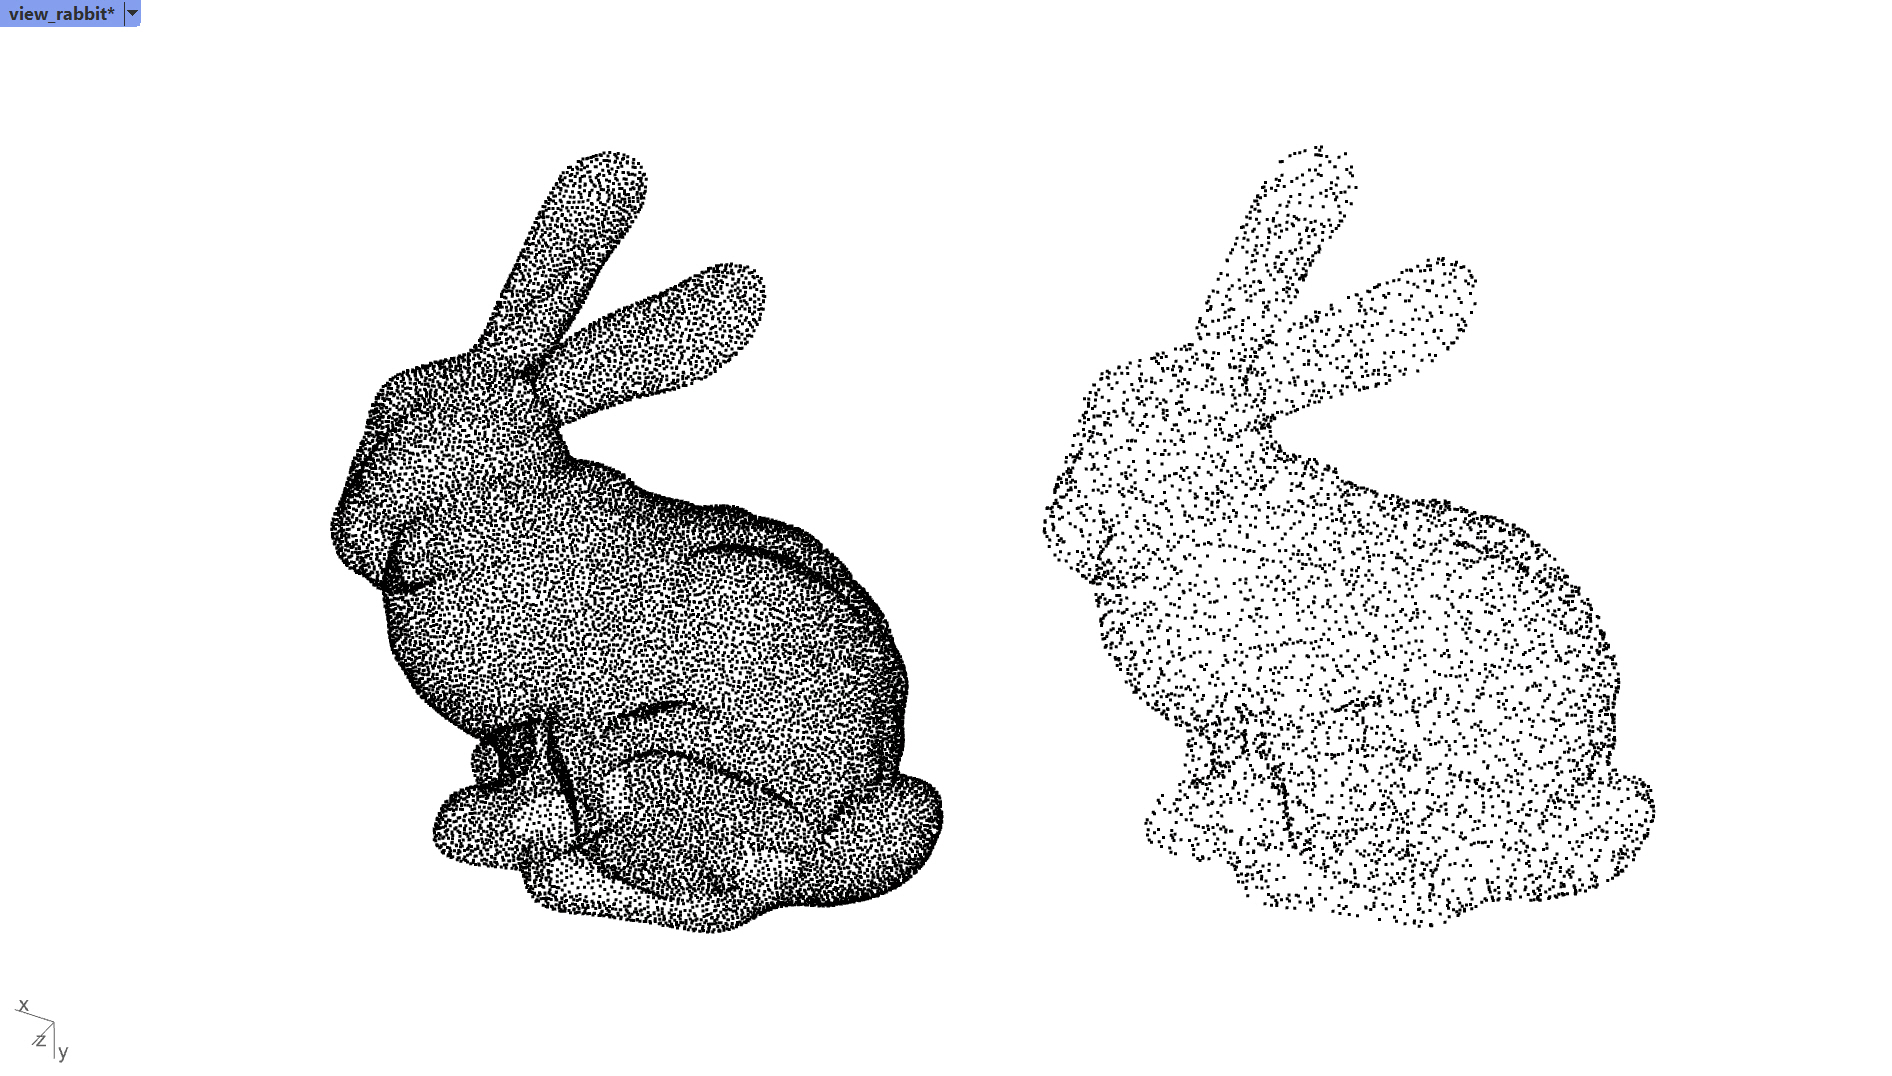
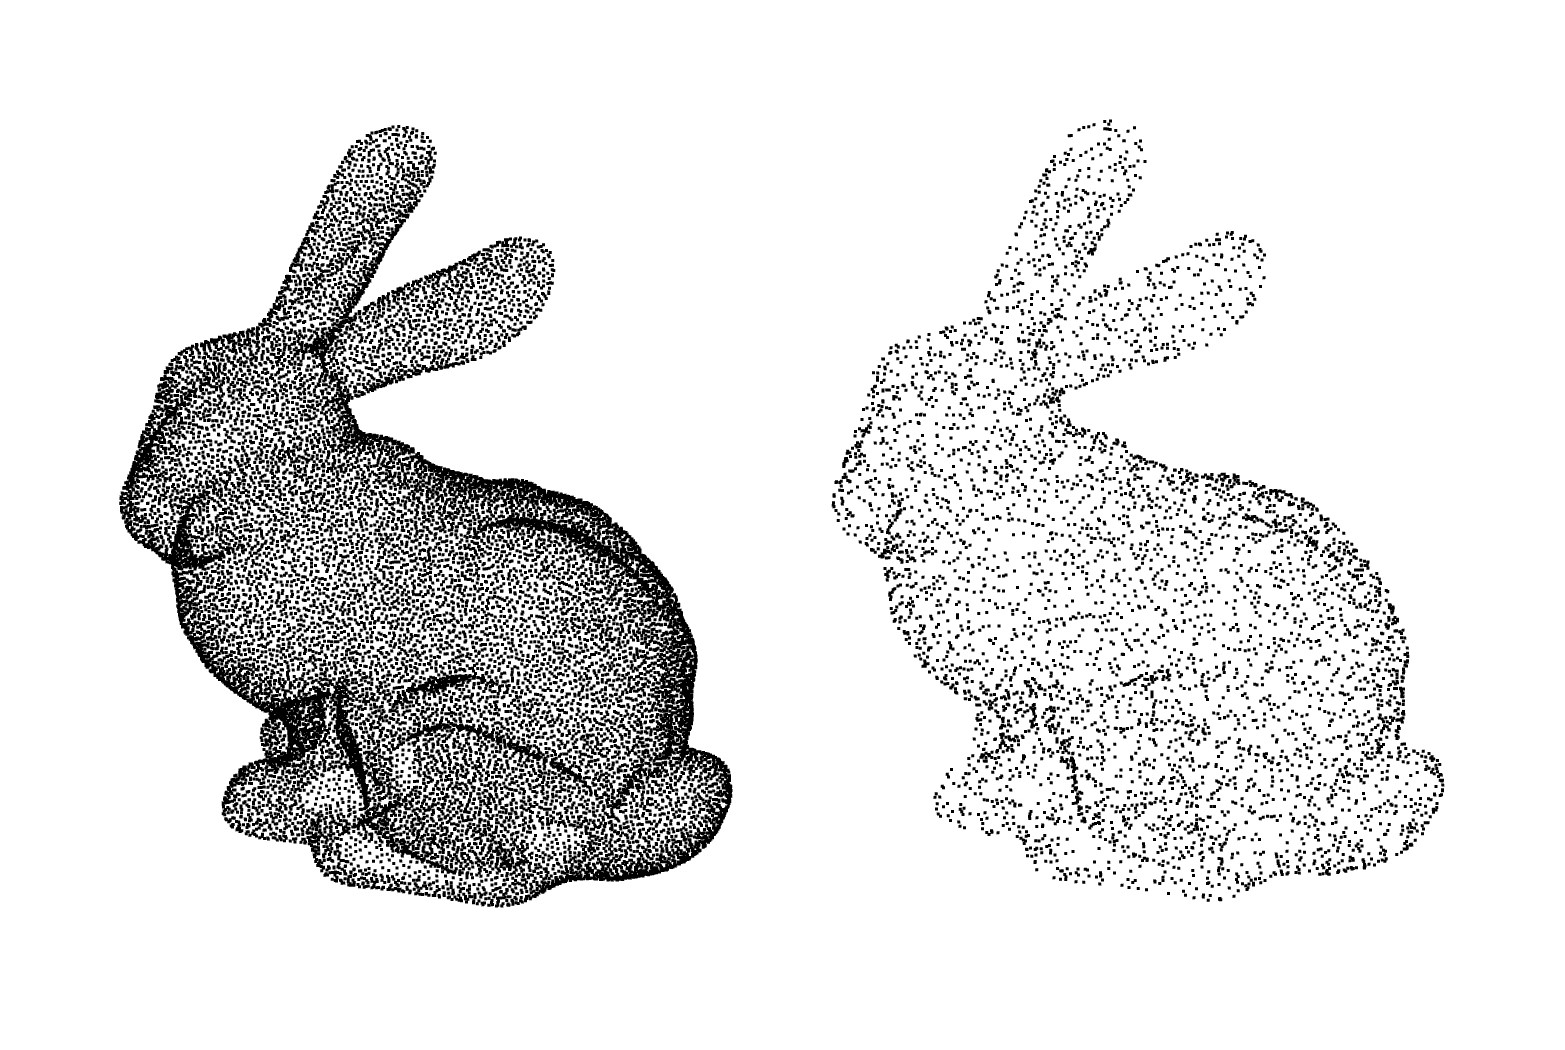
WIP-ADD: create docs for cmds planesegmentation

diff --git a/docs/cmd_description/Cockroach_PlaneSegmentation.md b/docs/cmd_description/Cockroach_PlaneSegmentation.md
@@ -1,0 +1,31 @@
+---
+layout: default
+title: Cockroach_PlaneSegmentation
+parent: Cmd Description
+---
+
+# `Cockroach_PlaneSegmentation`
+{: .no_toc }
+
+![img_planesegmentation](https://github.com/ibois-epfl/Cockroach-documentation/blob/docu-alpha/img/cmds/cockroach_planesegmentation.jpg?raw=true)
+
+It is often useful to segment a pointcloud into different planes. This command will segment a pointcloud into the biggest detected plane and the remaining pointcloud. The biggest plane is the plane that contains the most points with similar normals. Note that since this algorithm is based on the RANSAC algorithm, the result might not be the same every time you run the command. Also it requires the point cloud to have normals, if absent, it will compute them automatically.
+
+**Command options:**
+```
+DistanceThreshold=0.01
+```
+{: .fs-6 .fw-300 }
+This is the maximum distance between a point and a plane to be considered as part of the plane. The smaller the value, the more points will be considered as part of the plane.
+
+```
+RANSACValue=3
+```
+{: .fs-6 .fw-300 }
+The plane detection algorithm is based on the RANSAC algorithm. This value is the number of points that will be used to compute the plane. The smaller the value, the faster the algorithm will be but the less accurate it will be.
+
+```
+Iterations=1000
+```
+{: .fs-6 .fw-300 }
+This is the number of iterations that will be done by the RANSAC algorithm. The bigger the value, the more accurate the algorithm will be but the slower it will be.

diff --git a/docs/cmd_description/Cockroach_Downsample.md b/docs/cmd_description/Cockroach_Downsample.md
@@ -7,13 +7,13 @@ parent: Cmd Description
 # `Cockroach_Downsample`
 {: .no_toc }
 
-![img_4](https://github.com/ibois-epfl/Cockroach-documentation/blob/docu-alpha/img/cmds/cockroach_downsample.jpg?raw=true)
+![img_downsample](https://github.com/ibois-epfl/Cockroach-documentation/blob/docu-alpha/img/cmds/cockroach_downsample.jpg?raw=true)
+
+When you process pointclouds this is one of the very first type of operations you will do. The goal is to reduce the number of points in a pointcloud while keeping the overall shape of the pointcloud. This is done by removing points that are too close to each other.
 
 **Command options:**
 ```
 Downsample=5000
 ```
 {: .fs-6 .fw-300 }
-Set the target pointcloud size to 5000 points. The smaller the value, the more points will be removed.
-
-When you process pointclouds this is one of the very first type of operations you will do. The goal is to reduce the number of points in a pointcloud while keeping the overall shape of the pointcloud. This is done by removing points that are too close to each other.
+Set the target pointcloud size to 5000 points by default. The smaller the value, the more points will be removed.

diff --git a/docs/cmd_description/Cockroach_Crop.md b/docs/cmd_description/Cockroach_Crop.md
@@ -7,7 +7,9 @@ parent: Cmd Description
 # `Cockroach_Crop`
 {: .no_toc }
 
-![img_4](https://github.com/ibois-epfl/Cockroach-documentation/blob/docu-alpha/img/cmds/cockroach_crop.jpg?raw=true)
+![img_crop](https://github.com/ibois-epfl/Cockroach-documentation/blob/docu-alpha/img/cmds/cockroach_crop.jpg?raw=true)
+
+Select first a pointcloud and then a box to crop the pointcloud. The pointcloud will be split in two. The first part will be the cropped pointcloud and the second part will be the remaining pointcloud.
 
 **Command options:**
 ```
@@ -15,4 +17,3 @@ None
 ```
 {: .fs-6 .fw-300 }
 
-Select first a pointcloud and then a box to crop the pointcloud. The pointcloud will be split in two. The first part will be the cropped pointcloud and the second part will be the remaining pointcloud.
